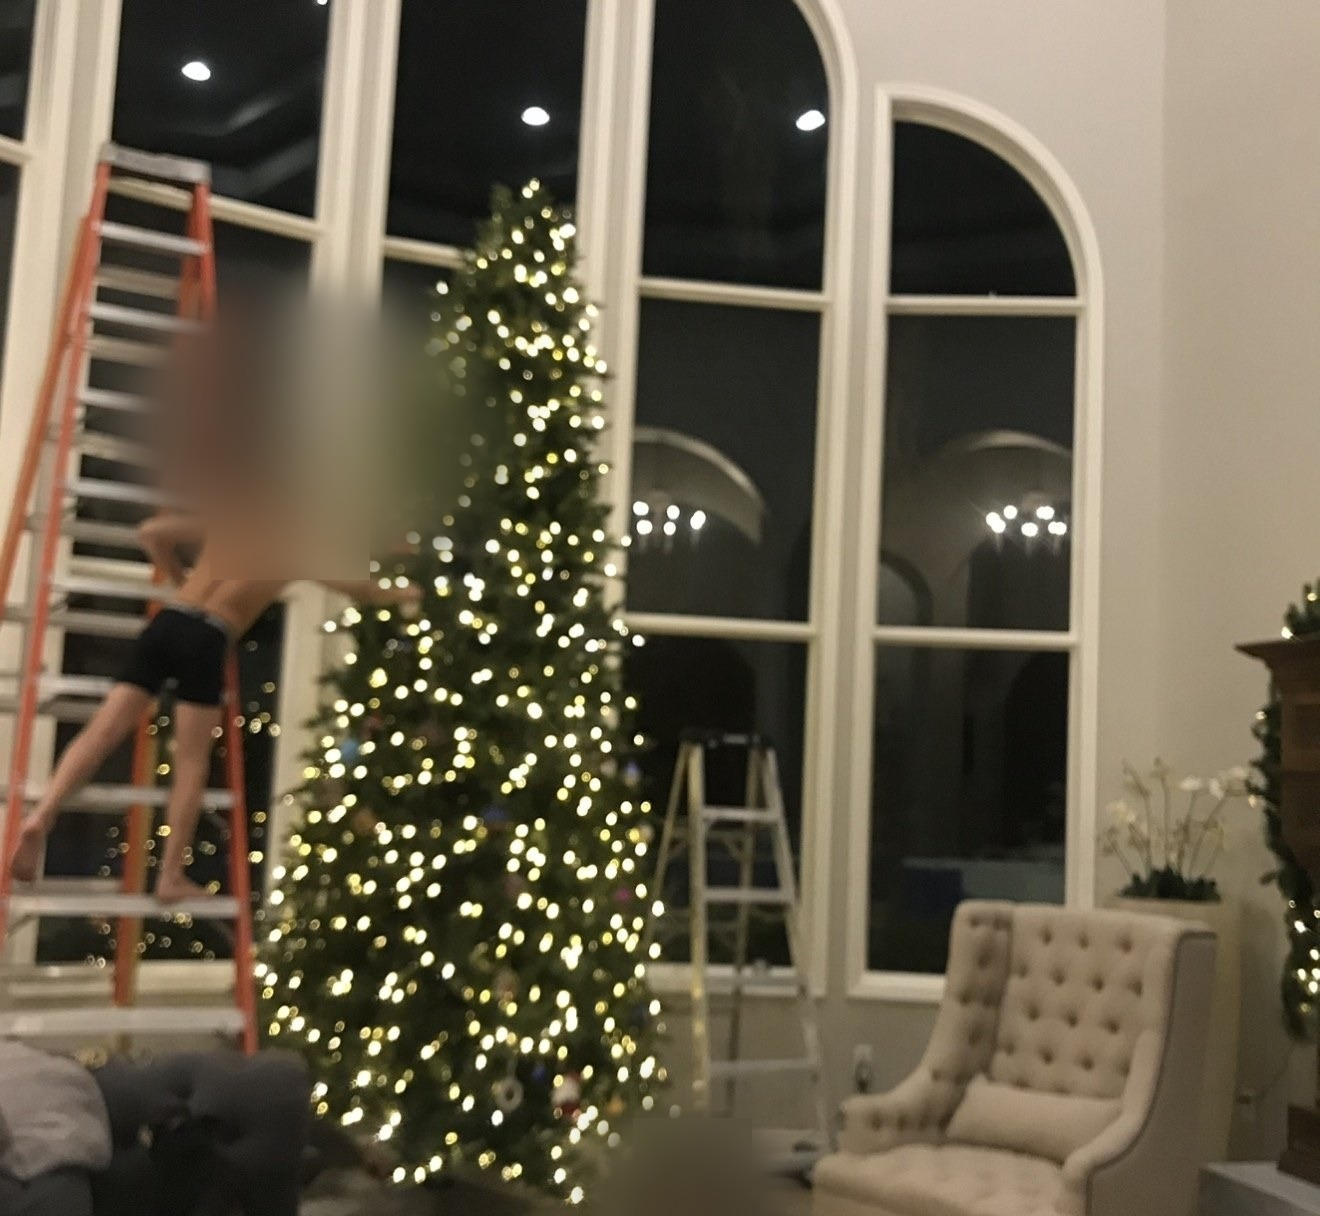
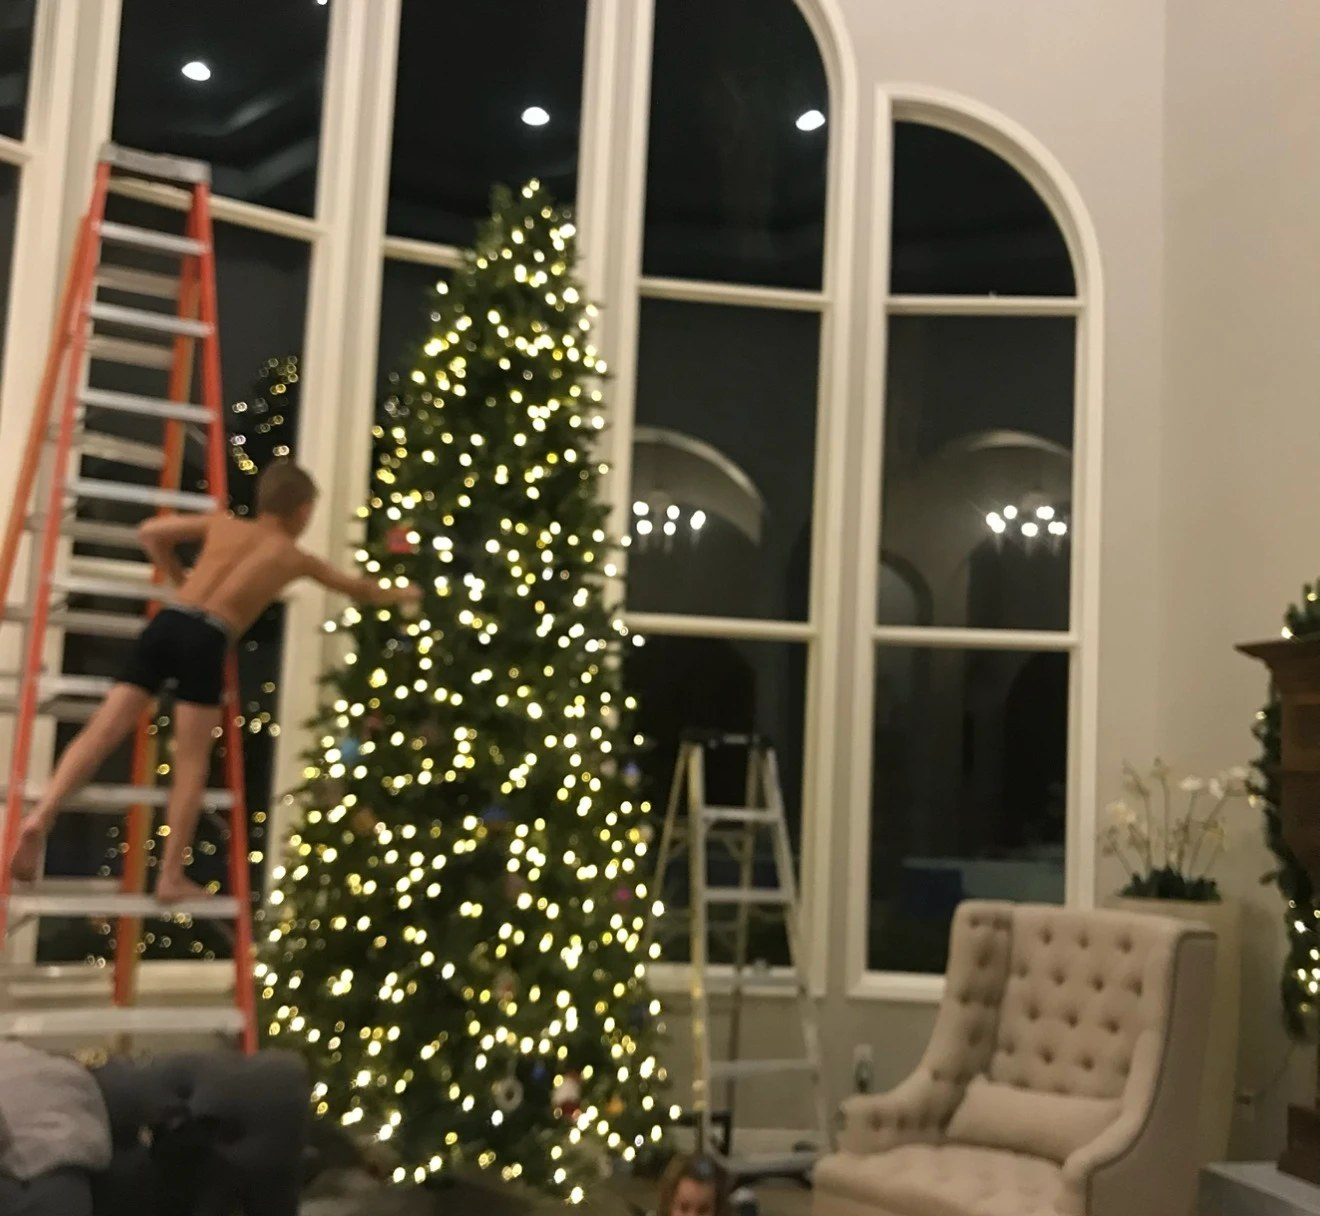
Gallery: Jen's originals of three family photos, no blur
nov4-01 (Christmas tree), nov4-03 (Christmas pajamas) and nov4-06 (beach
bodyboard) are now Jen's own originals with no blur, on Adam's explicit
decision ("No blur at all"). They replace copies with hard-edged blurs.
Same sizes, no metadata. Noted in PhotoGallery.js and
docs/photo-changes-2026-11-05.md as an exception to the kids rule.

Changed region(s): [[0.0932, 0.2188, 0.4038, 0.5], [0.4348, 0.9062, 0.5902, 1.0]]

diff --git a/app/components/PhotoGallery.js b/app/components/PhotoGallery.js
@@ -276,6 +276,10 @@ const OCT26 = [
 // November 4 batch, after OCT26. No captions (Jen). Children's faces and
 // the names on the pajama shirts are blurred; screenshots cropped to the photo.
 const NOV4 = [
+  // Nov 5, 2026: nov4-01, nov4-03 and nov4-06 are Jen's own originals, shown with
+  // NO blur, on Adam's explicit decision ("No blur at all", names on the pajama
+  // shirts included). This is a deliberate exception to the kids rule in
+  // AGENTS.md. Do not re-blur or swap these without asking Adam and Jen.
   { src: '/assets/gallery-nov4/nov4-01-christmas-tree.jpg', alt: 'Christmas tree with a ladder', caption: '', width: 1320, height: 1216 },
   { src: '/assets/gallery-nov4/nov4-02-ivy-fountain.jpg', alt: 'A little girl at an ivy-covered fountain', caption: '', width: 1320, height: 1274 },
   { src: '/assets/gallery-nov4/nov4-03-christmas-pajamas.jpg', alt: 'Jen Archuleta and her family in matching Christmas pajamas', caption: '', width: 1320, height: 1164 },

diff --git a/docs/photo-changes-2026-11-05.md b/docs/photo-changes-2026-11-05.md
@@ -73,3 +73,17 @@ Eight photos. Where a child's face had a hard square or a tight block, that bloc
 | `gallery-nov4/nov4-13-family-ocean.jpg` | Gallery | Three children |
 
 Left as they were: `gallery-nov3/19-private-jet.jpg` (the baby already had a soft oval), backs of heads with no face (the volcano, the ivy fountain, the mansion lawn, the camel photo), and the pajama photo (those blocks cover names on the shirts). `jen-childhood.jpg` is Jen. The asleep-with-the-rescues photo is not on the homepage. The Journal photos live in Sanity, not in these files, so they were not edited.
+
+## Later November 5: three originals, no blur (Adam's decision)
+
+Jen sent her originals of three gallery photos. Adam was asked whether to blur
+the children's faces or the two names printed on the pajama shirts, and chose
+"No blur at all". The files below are her originals, same size as before, saved as
+JPEG with no metadata. This is a deliberate exception to the kids rule in
+AGENTS.md; do not re-blur them without asking Adam and Jen.
+
+| File | Was | Now |
+|---|---|---|
+| `gallery-nov4/nov4-01-christmas-tree.jpg` | Soft rectangle blur over the child on the ladder and the child at the bottom | Jen's original, no blur |
+| `gallery-nov4/nov4-03-christmas-pajamas.jpg` | Solid blocks over the children and the names on their shirts | Jen's original, no blur |
+| `gallery-nov4/nov4-06-beach-bodyboard.jpg` | Hard-edged blurs over the held child and the two boys | Jen's original, no blur |
